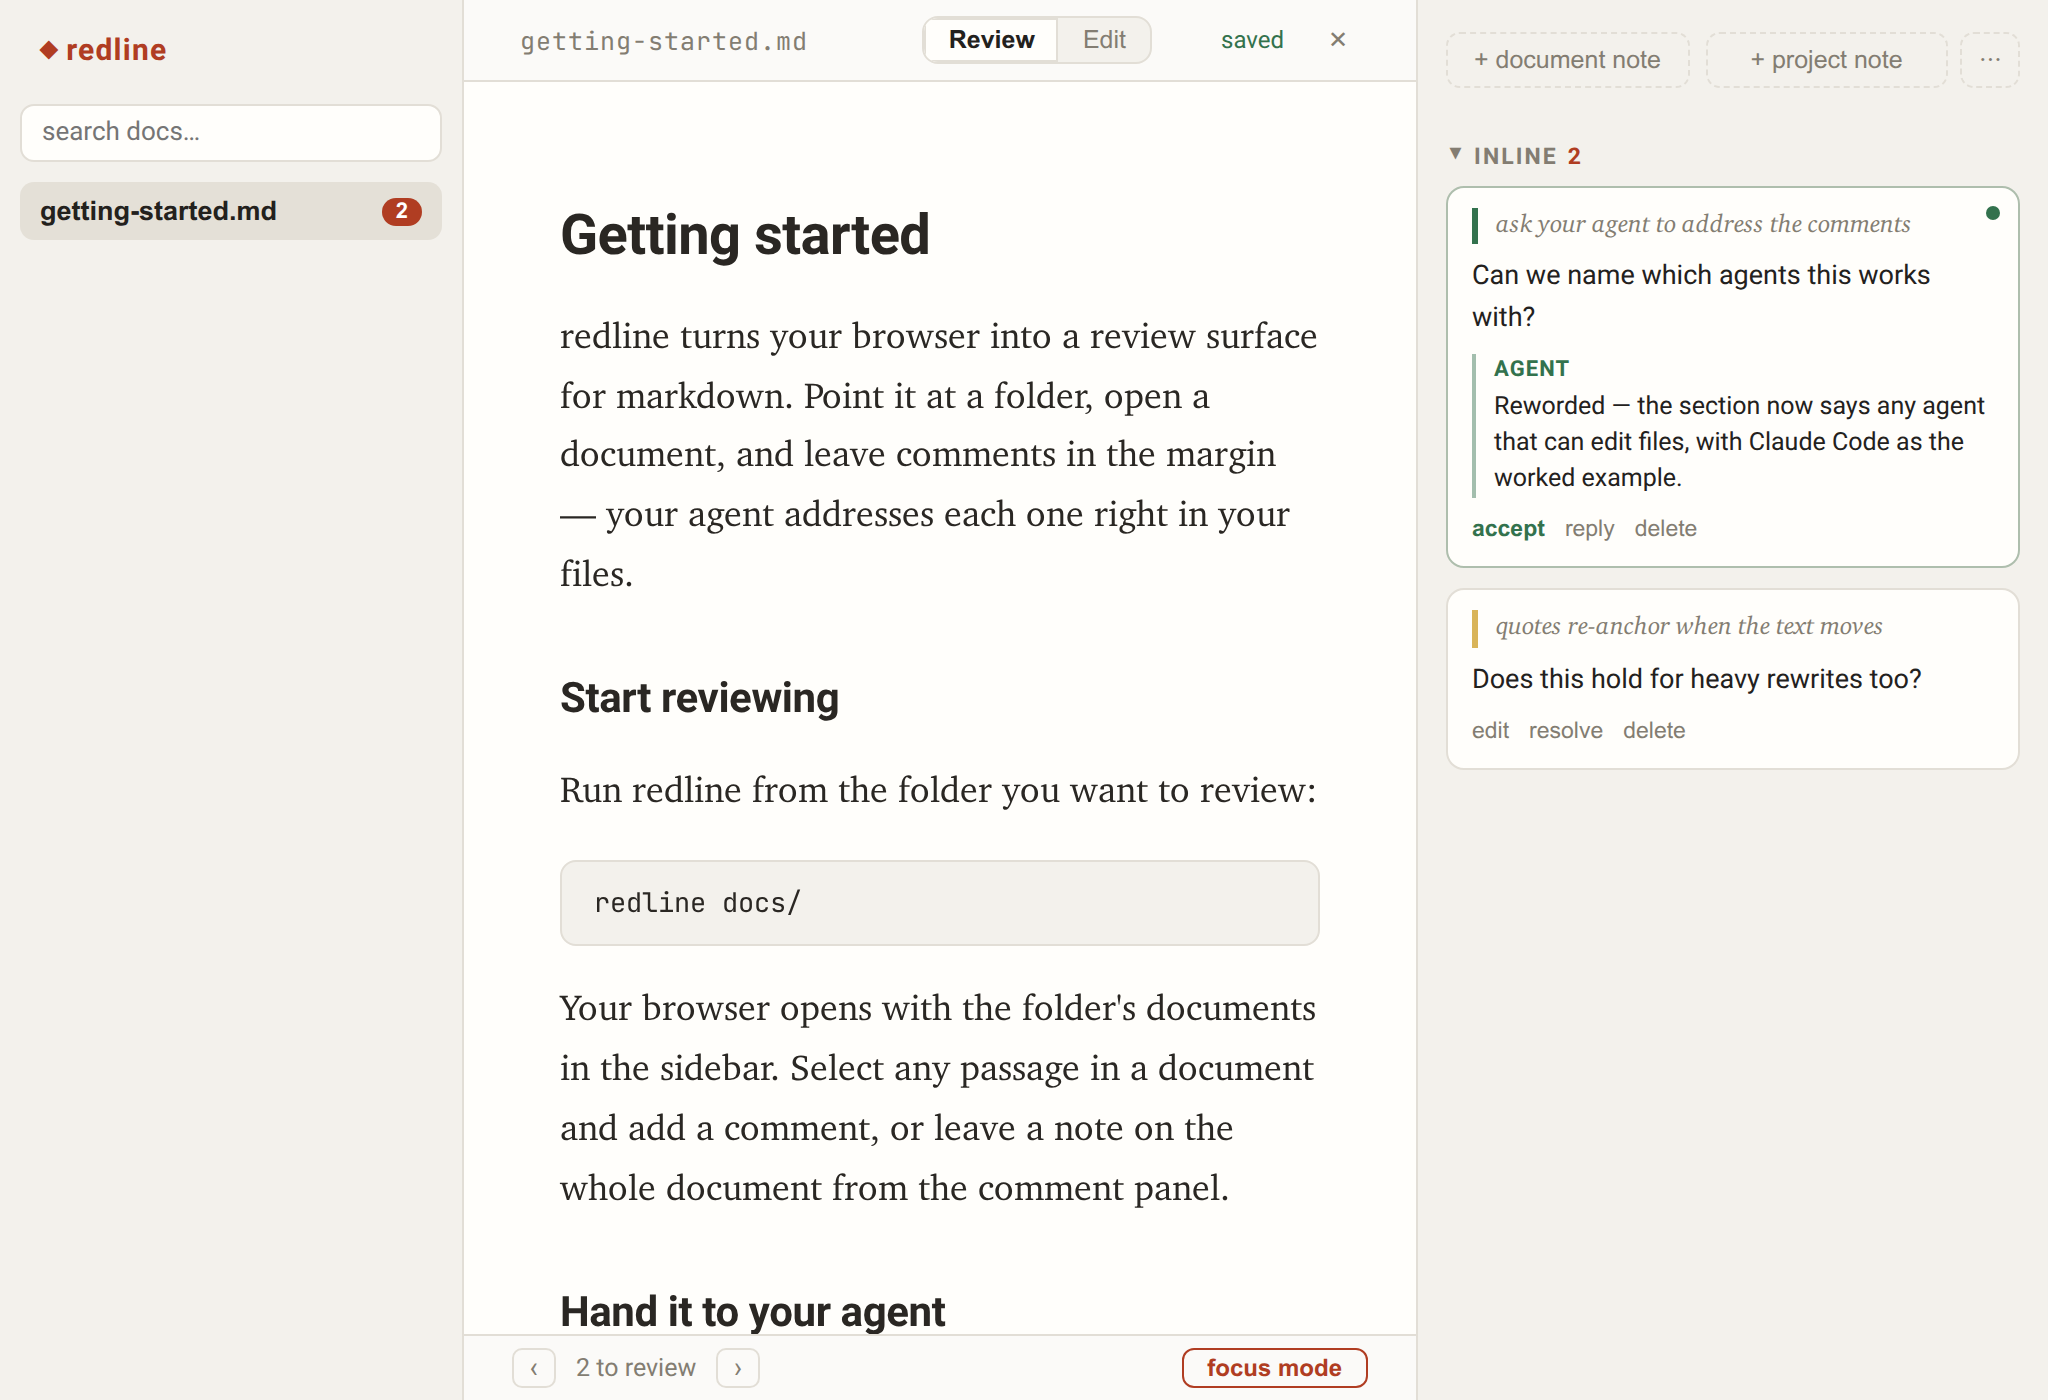
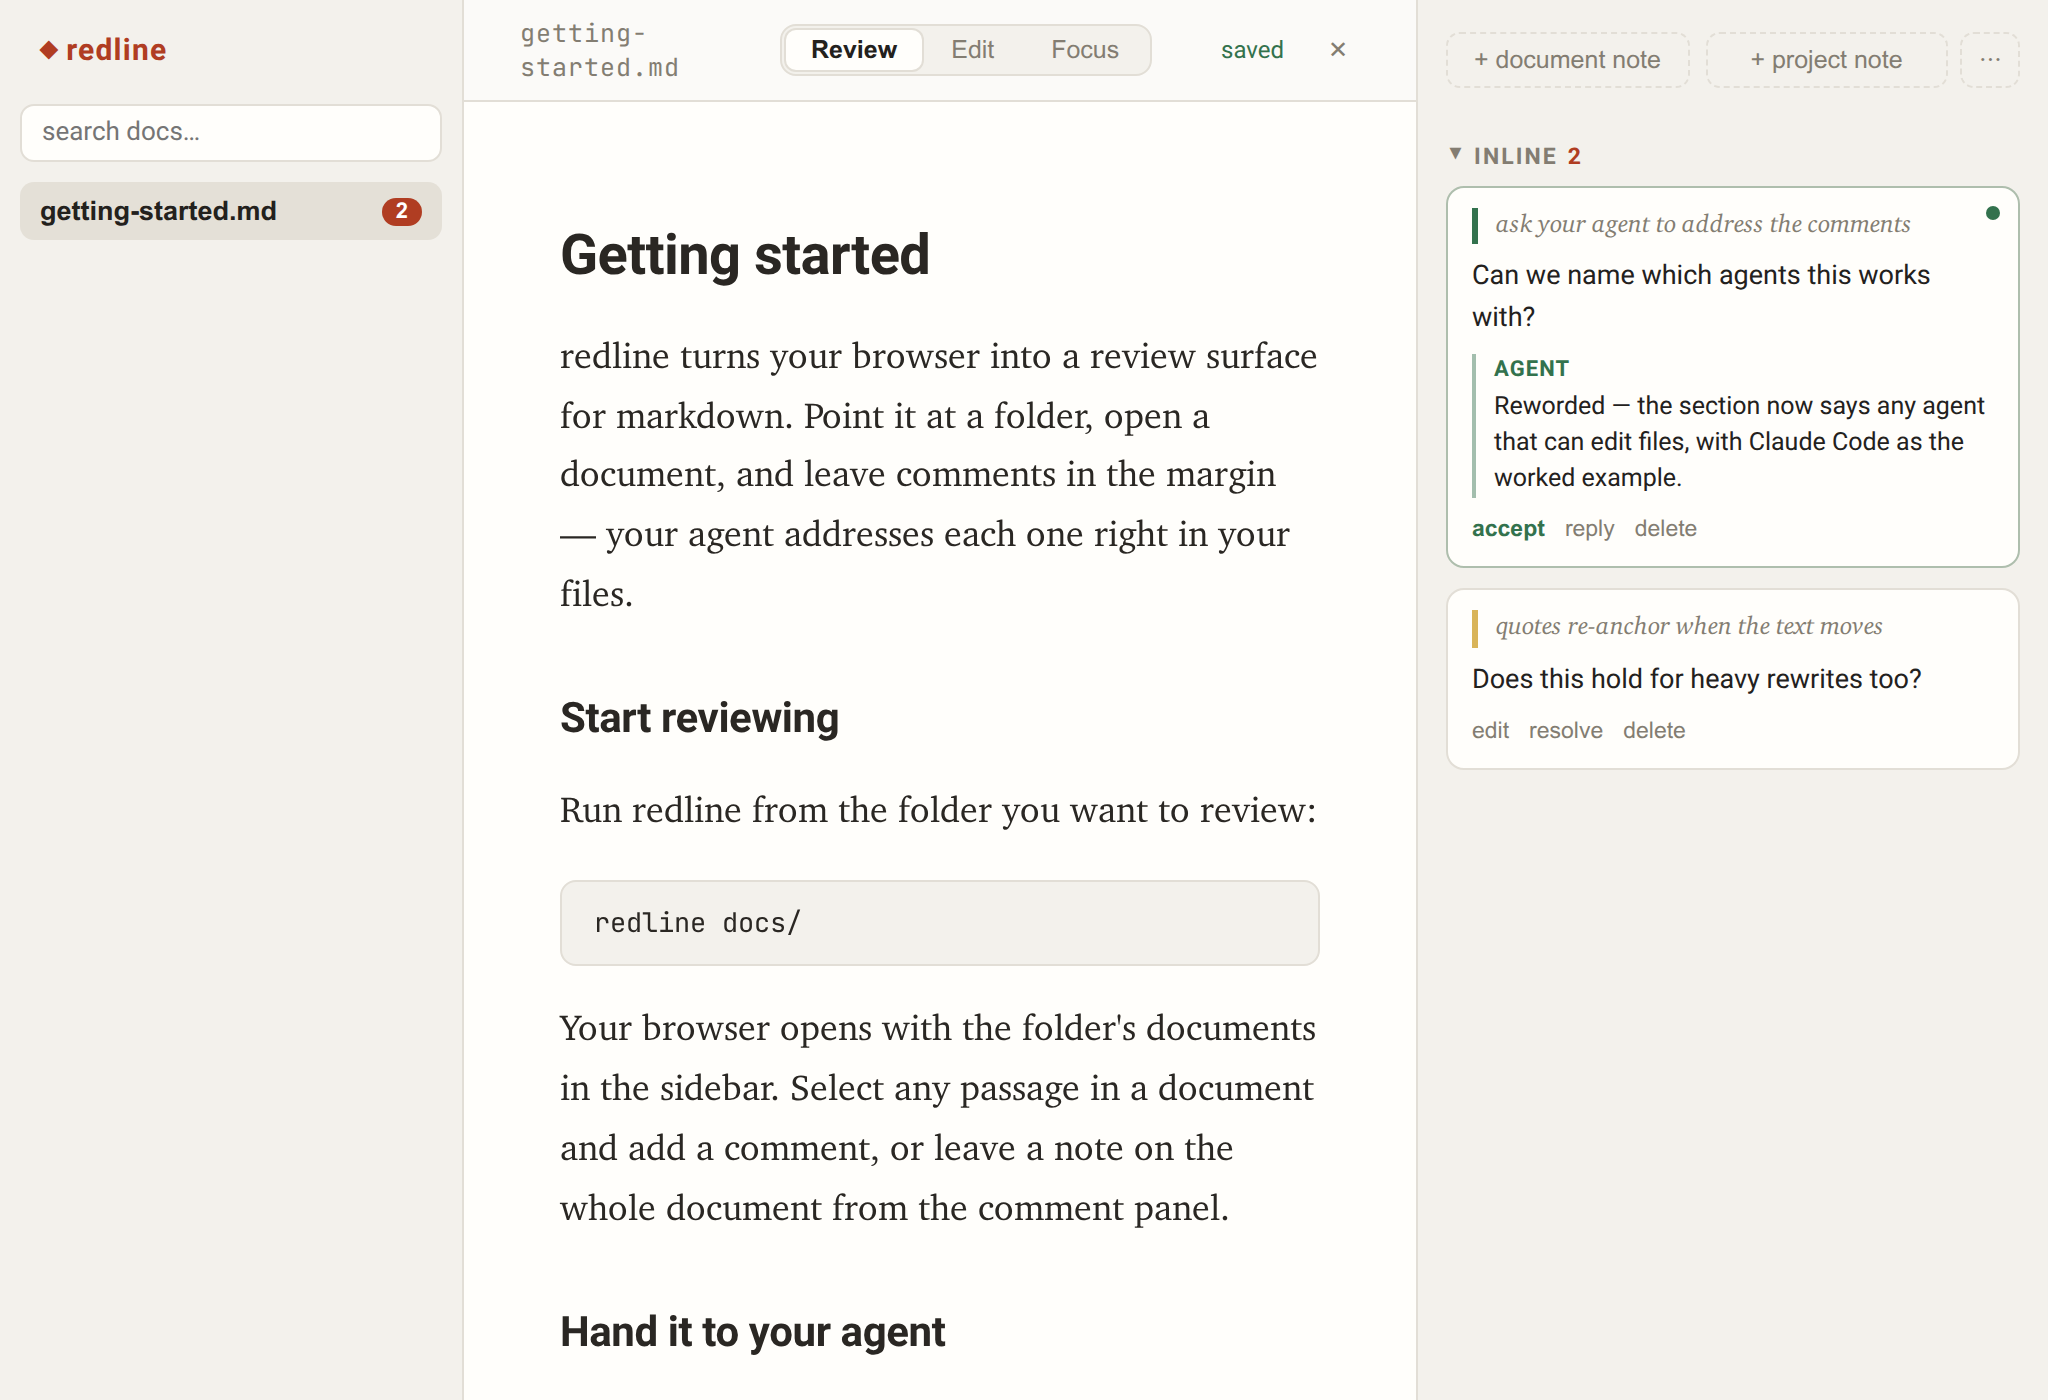
settle the review chrome: verbs in the header, Focus as a mode, no cluster
The review-actions cluster dissolves into homes that already existed for
each kind of thing: focus joins the mode toggle (Review | Edit | Focus),
the handoff verbs (copy for AI / paste reply) take the header's top-right
slot in the web build, and the "N to review" count is deleted — tree
badges and section headers already carry it. The sidebar is purely
comments again; toasts (top-left) only confirm invisible actions and
report errors. Also: iOS-style segmented control (padded track, rounded
active pill, bold-ghost width reservation so activating never resizes),
inline two-step doc removal, mode-aware empty states, plain-language
storage copy, and refreshed README screenshots.

diff --git a/web/src/styles.css b/web/src/styles.css
@@ -198,25 +198,44 @@ body {
 .rl-save-dirty, .rl-save-saving { color: var(--amber-note); }
 
 .rl-mode {
-  display: inline-flex;
+  /* equal-width segments (each as wide as the widest label) — a segmented
+     control is one instrument, not a row of label-sized buttons */
+  display: inline-grid;
+  grid-auto-flow: column;
+  grid-auto-columns: 1fr;
   border: 1px solid var(--border);
   border-radius: 8px;
-  overflow: hidden;
   background: var(--panel);
+  padding: 2px;
+  gap: 2px;
 }
 .rl-mode button {
   border: 0;
   background: none;
-  padding: 4px 12px;
+  padding: 3px 12px;
   font-size: 12.5px;
   color: var(--muted);
   cursor: pointer;
+  text-align: center;
+  /* the active segment is its own rounded pill inside the track — nothing
+     gets corner-clipped, so it stays clean at any zoom */
+  border-radius: 5px;
 }
 .rl-mode button.active {
   background: var(--paper);
   color: var(--text);
   font-weight: 600;
-  box-shadow: inset 0 0 0 1px var(--border);
+  box-shadow: 0 0 0 1px var(--border);
+}
+/* zero-height bold ghost of the label: every segment reserves its bold
+   width up front, so activating (bolding) one never resizes the control */
+.rl-mode button::after {
+  content: attr(data-label);
+  display: block;
+  height: 0;
+  overflow: hidden;
+  font-weight: 600;
+  visibility: hidden;
 }
 
 .rl-editor {
@@ -537,17 +556,6 @@ body {
   background: color-mix(in srgb, var(--accent) 8%, transparent);
 }
 .rl-menu button:disabled { opacity: 0.4; cursor: default; }
-.rl-focus-btn {
-  border: 1px solid var(--accent);
-  background: none;
-  color: var(--accent);
-  border-radius: 6px;
-  padding: 2px 12px;
-  font-size: 12px;
-  font-weight: 600;
-  cursor: pointer;
-}
-.rl-focus-btn:hover { background: var(--accent); color: #fff; }
 .rl-close-doc {
   border: none;
   background: none;
@@ -800,14 +808,15 @@ body {
 .rl-welcome-hint { font-size: 12.5px; opacity: 0.85; margin-top: 10px; }
 .rl-toast {
   position: fixed;
-  bottom: 58px;
-  left: 50%;
-  transform: translateX(-50%);
+  top: 52px;
+  left: 248px;
   background: #35322d;
   color: #fff;
   padding: 8px 16px;
   border-radius: 8px;
-  font-size: 13.5px;
+  font-size: 13px;
+  max-width: 380px;
+  box-shadow: 0 8px 24px rgba(35, 33, 29, 0.25);
   z-index: 60;
 }
 code {
@@ -832,17 +841,6 @@ pre code,
 }
 
 /* ---------- handoff (static web build) ---------- */
-.rl-handoff-btn {
-  border: 1px solid var(--accent);
-  background: none;
-  color: var(--accent);
-  border-radius: 6px;
-  padding: 2px 12px;
-  font-size: 12px;
-  font-weight: 600;
-  cursor: pointer;
-}
-.rl-handoff-btn:hover { background: var(--accent); color: #fff; }
 .rl-handoff-panel { display: flex; flex-direction: column; gap: 12px; }
 .rl-handoff-title { margin: 0; font-size: 15px; color: var(--text); }
 .rl-handoff-input {
@@ -917,34 +915,37 @@ pre code,
 
 .rl-handoff-recopy { margin-right: auto; order: -1; }
 
-/* ---------- project review block (left pane) ---------- */
-.rl-tree-review {
+.rl-tree .rl-empty { margin: 6px 2px 0; font-size: 12.5px; }
+
+/* ---------- review actions, floating on the canvas margin ---------- */
+.rl-main { position: relative; }
+
+.rl-canvas-actions {
+  position: absolute;
+  top: 54px;
+  right: 22px;
   display: flex;
   flex-direction: column;
-  align-items: flex-start;
-  gap: 8px;
-  padding: 2px 2px 14px;
-  margin-bottom: 12px;
-  border-bottom: 1px solid var(--border);
+  align-items: flex-end;
+  gap: 5px;
+  z-index: 20;
 }
-/* nothing to review, no handoff in flight: no block, no line */
-.rl-tree-review:not(:has(span, button)) { display: none; }
-.rl-review-count {
-  color: var(--accent);
+/* actions are quiet text on the paper — no chrome, accent on hover, and the
+   loop's single next step carries the accent at rest */
+.rl-action {
+  border: none;
+  background: none;
+  padding: 2px 0;
   font-size: 12.5px;
-  font-weight: 600;
-}
-.rl-tree-review-actions {
-  display: flex;
-  flex-wrap: wrap;
-  align-items: center;
-  gap: 6px;
-}
-.rl-handoff-waiting {
-  flex-basis: 100%;
   color: var(--muted);
-  font-size: 12px;
-  font-style: italic;
+  cursor: pointer;
+  text-align: right;
 }
-/* the one next step in the loop — the only filled button on screen */
-.rl-handoff-primary { background: var(--accent); color: #fff; }
+.rl-action:hover:not(:disabled) { color: var(--accent); }
+.rl-action:disabled { opacity: 0.45; cursor: default; }
+.rl-action-primary { color: var(--accent); font-weight: 600; }
+
+
+
+.rl-header .rl-action { font-size: 12px; }
+.rl-mode button:disabled { opacity: 0.4; cursor: default; }

diff --git a/web/src/App.tsx b/web/src/App.tsx
@@ -509,35 +509,11 @@ export function App() {
     if (focusMode && focusEntries.length === 0) setFocusMode(false);
   }, [focusMode, focusEntries.length]);
 
-  // project-wide review state + loop actions: lives in the left (project)
-  // pane. Status is text, actions are buttons.
-  const toReview =
-    tree.reduce((n, e) => n + e.openComments, 0) +
-    projectAnnotations.filter((a) => a.status !== "resolved").length;
+  // no counts in chrome — the tree badges and section headers already carry
+  // them; the handoff verbs live in the header's top-right slot (web build)
   const agentReady =
     tree.reduce((n, e) => n + e.agentReady, 0) +
     projectAnnotations.filter((a) => a.status === "open" || a.status === "orphaned").length;
-  const reviewBlock = (
-    <div className="rl-tree-review">
-      {toReview > 0 && <span className="rl-review-count">{toReview} to review</span>}
-      <div className="rl-tree-review-actions">
-        {reviewEntries.length > 0 && !focusMode && (
-          <button
-            className="rl-focus-btn"
-            onClick={enterFocusMode}
-            title="Review the open comments one at a time (Esc exits)"
-          >
-            focus mode
-          </button>
-        )}
-        {STATIC_MODE && (
-          <Suspense fallback={null}>
-            <HandoffControls currentPath={path} readyCount={agentReady} onNotice={showError} />
-          </Suspense>
-        )}
-      </div>
-    </div>
-  );
 
   return (
     <div className="rl-app">
@@ -546,7 +522,6 @@ export function App() {
         currentPath={path}
         onOpen={(p) => void openFile(p)}
         onOpenResult={openSearchResult}
-        reviewBlock={reviewBlock}
         onRemove={
           STATIC_MODE && api.deleteDoc
             ? (p) => {
@@ -592,25 +567,47 @@ export function App() {
                     ● changes
                   </button>
                 )}
+                {STATIC_MODE && (
+                  <Suspense fallback={null}>
+                    <HandoffControls
+                      currentPath={path}
+                      readyCount={agentReady}
+                      onNotice={showError}
+                    />
+                  </Suspense>
+                )}
                 <div className="rl-mode" role="group" aria-label="mode">
                   <button
-                    className={mode === "review" ? "active" : ""}
+                    className={!focusMode && mode === "review" ? "active" : ""}
                     onClick={() => {
+                      setFocusMode(false);
                       setMode("review");
                       editorRef.current?.setEditable(false);
                     }}
+                    data-label="Review"
                   >
                     Review
                   </button>
                   <button
-                    className={mode === "edit" ? "active" : ""}
+                    className={!focusMode && mode === "edit" ? "active" : ""}
                     onClick={() => {
+                      setFocusMode(false);
                       setMode("edit");
                       editorRef.current?.setEditable(true);
                       cancelDraft();
                     }}
+                    data-label="Edit"
                   >
                     Edit
+                  </button>
+                  <button
+                    className={focusMode ? "active" : ""}
+                    disabled={focusEntries.length === 0}
+                    onClick={enterFocusMode}
+                    title="Step through the comments one at a time (Esc exits)"
+                    data-label="Focus"
+                  >
+                    Focus
                   </button>
                 </div>
                 <span className={`rl-save rl-save-${saveState}`}>

diff --git a/web/src/components/HandoffControls.tsx b/web/src/components/HandoffControls.tsx
@@ -165,26 +165,21 @@ export function HandoffControls({
 
   return (
     <>
-      {awaitingReply ? (
-        <>
-          <span className="rl-handoff-waiting">waiting for reply</span>
-          <button
-            className="rl-handoff-btn rl-handoff-primary"
-            onClick={() => setModalOpen(true)}
-            title="Paste the assistant's reply to apply its revision and responses"
-          >
-            paste reply
-          </button>
-        </>
-      ) : readyCount > 0 ? (
-        <button
-          className="rl-handoff-btn"
-          onClick={() => void copyHandoff()}
-          title="Copy your documents and open comments as a prompt for any AI chat"
-        >
-          copy for AI
-        </button>
-      ) : null}
+      <button
+        className="rl-action"
+        disabled={readyCount === 0}
+        onClick={() => void copyHandoff()}
+        title="Copy your documents and open comments as a prompt for any AI chat"
+      >
+        copy for AI ↗
+      </button>
+      <button
+        className={`rl-action${awaitingReply ? " rl-action-primary" : ""}`}
+        onClick={() => setModalOpen(true)}
+        title="Paste the assistant's reply to apply its revision and responses"
+      >
+        paste reply ↙
+      </button>
 
       {modalOpen && (
         <>

diff --git a/web/src/components/FileTree.tsx b/web/src/components/FileTree.tsx
@@ -1,6 +1,6 @@
 import { useEffect, useMemo, useRef, useState } from "react";
 import type { TreeEntry } from "@redline/shared";
-import { api, type SearchResult } from "../api.ts";
+import { api, STATIC_MODE, type SearchResult } from "../api.ts";
 
 interface DirNode {
   name: string;
@@ -165,7 +165,13 @@ export function FileTree({ entries, currentPath, onOpen, onOpenResult, onRemove,
         </ul>
       ) : (
         <>
-          {entries.length === 0 && <p className="rl-muted">No markdown files found.</p>}
+          {entries.length === 0 && (
+            <p className="rl-muted rl-empty">
+              {STATIC_MODE
+                ? "No documents yet — drop a markdown file anywhere in this window, or paste one from your clipboard."
+                : "No markdown files found in this folder."}
+            </p>
+          )}
           <ul>{renderDir(tree, 0)}</ul>
         </>
       )}